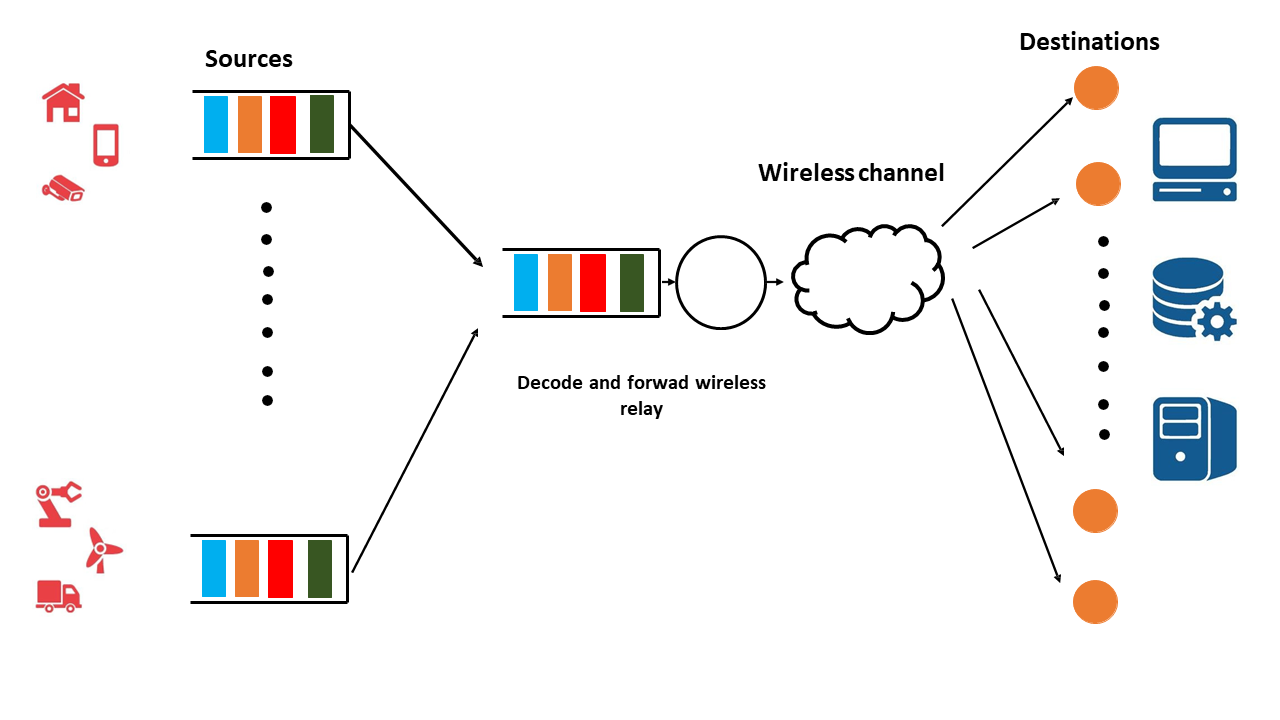
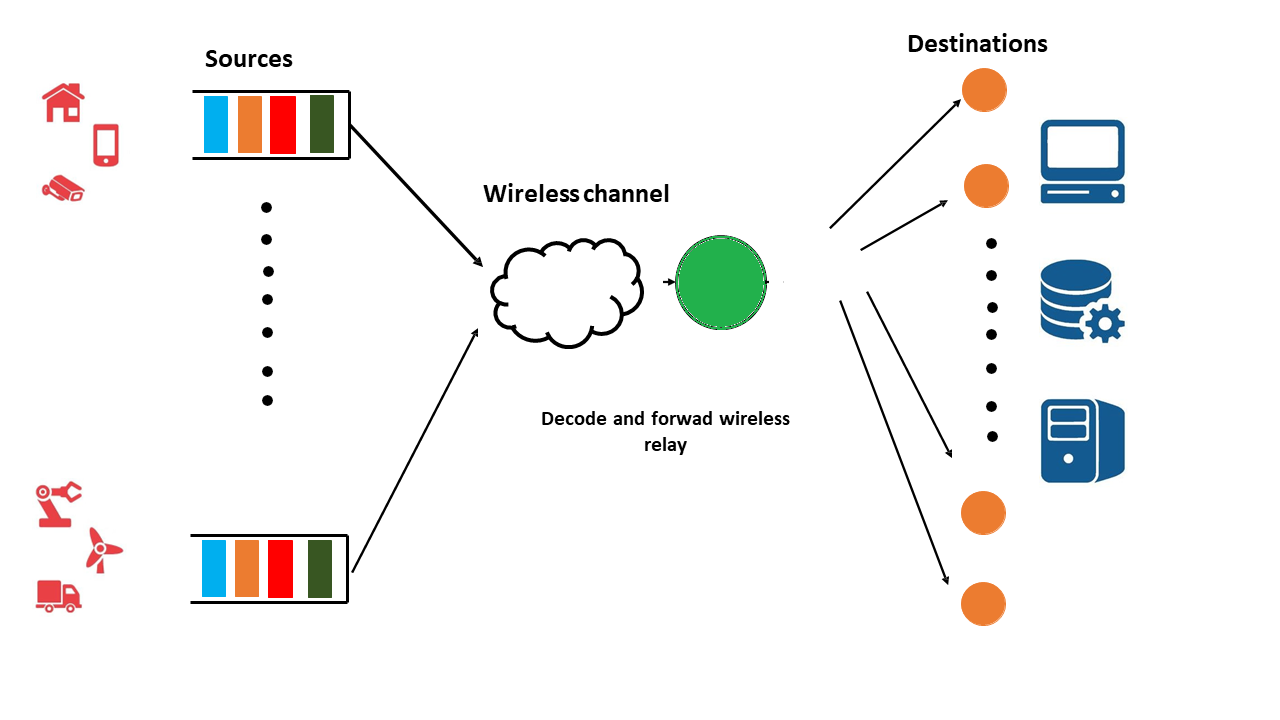
mkdocs

diff --git a/docs/site/index.html b/docs/site/index.html
@@ -294,6 +294,13 @@
 </li>
       
         <li class="md-nav__item">
+  <a href="#features" class="md-nav__link">
+    Features
+  </a>
+  
+</li>
+      
+        <li class="md-nav__item">
   <a href="#requirements" class="md-nav__link">
     Requirements
   </a>
@@ -397,12 +404,44 @@
 
 
 <p><a href="https://github.com/cahthuranag/Agewire/blob/3000891c482e715b3006264a88dfcf4ed4aedc7c/LICENSE"><img alt="License: MIT" src="https://img.shields.io/badge/License-MIT-yellow.svg" /></a>
-<img alt=".github/workflows/test.yml" src="https://github.com/github/docs/actions/workflows/test.yml/badge.svg" /></p>
+<img alt=".github/workflows/test.yml" src="https://github.com/github/docs/actions/workflows/test.yml/badge.svg" />
+<a href="https://codecov.io/gh/cahthuranag/agenet"><img alt="codecov" src="https://codecov.io/gh/cahthuranag/agenet/branch/main/graph/badge.svg?token=k8Ix6Zv8x9" /></a>
+<a href="https://github.com/psf/black"><img alt="Code style: black" src="https://img.shields.io/badge/code%20style-black-000000.svg" /></a>
+<a href="https://cahthuranag.github.io/agenet/"><img alt="Docs" src="https://img.shields.io/badge/docs-stable-blue.svg" /></a>
+<img alt="GitHub Repo stars" src="https://img.shields.io/github/stars/cahthuranag/agenet?style=social" />
+<img alt="GitHub last commit" src="https://img.shields.io/github/last-commit/cahthuranag/agenet" /></p>
 <h1 id="agenet">agenet</h1>
 <p>A Python 3.8 implementation of the System Model estimate the average AoI (AAoI) in an ultra-reliable low latency communication (URLLC) enabled  wireless  communication system with slotted aloha scheme  over the quasi-static Rayleigh block fading channels. A packet communication scheme is used to meet both the reliability and latency requirements of the  proposed wireless network. By resorting to finite block length information theory, queuing theory and stochastic processes, theoretical results were obtained for this research software.</p>
 <h2 id="system-model">System Model</h2>
-<p>In this software,  a URLLC-enable wireless communication  system is proposed as illustrated in figure
-<img alt="System model." src="/figures/Fig1.png" /> </p>
+<p>The following figure illustrates the wireless communication system that is proposed in this application. 
+<img alt="System model." src="\figures/Fig1.png" />
+The diagram illustrates a wireless network that consists of multiple nodes. The transmission between each node and the relay is done using a transmission scheme similar to that of the slotted ALOHA protocol, which is a popular random access method used in wireless communication systems.</p>
+<p>However, the transmission between the relay and each destination uses dedicated communication channels, and as a result, no transmission scheme similar to ALOHA is employed for this part of the communication. This helps to reduce the possibility of collisions and improve the reliability of the communication.</p>
+<p>Additionally, short packet communication is used for transmission. Since short packets are more susceptible to errors, a finite block length information theory is employed to calculate the block error rate. This allows for a more accurate estimation of the probability of errors occurring during transmission.</p>
+<h2 id="features">Features</h2>
+<p>The agenet package allows the user to study the Age of Information (AoI) in a slotted URLLC-enabled ALOHA network, which can be used as a basis for implementing mission-critical wireless communication applications. This application can be used as a study tool to analyze the age of information in slotted ALOHA networks with multiple users and short packet communications scenarios to maintain URLLC (ultra-reliable low-latency communication). In this application, various parameters such as power allocation, block length, packet size, number of nodes in the network, and activation probability of each node can be adjusted to analyze how the age of information varies.</p>
+<p>The agenet package contains several functions that can be used to study the Age of Information (AoI) in a slotted URLLC-enabled ALOHA network. These functions include:</p>
+<ul>
+<li>
+<p>Calculates the Signal-to-Noise Ratio (SNR) at each receiving node. This function can be used to determine the SNR for each node in the network, which is an important factor in determining the quality of the communication link;</p>
+</li>
+<li>
+<p>Calculates the Block Error Rate (BER) at each destination. This function can be used to determine the BER for each destination in the network, which is an important metric for assessing the reliability of the network;</p>
+</li>
+<li>
+<p>Calculates the theoretical AoI and simulates the AoI for a given network configuration. This function can be used to determine the theoretical AoI for a given network configuration, which can be compared with the numerically simulated AoI to verify the accuracy of the simulation.
+Also, it is useful for analyzing the performance of the network and assessing the impact of various parameters on the AoI ;</p>
+</li>
+<li>
+<p>Estimates the average AoI value for a given update generation time and receiving time. This function can be used to estimate the average AoI value for a given update generation time and receiving time, which is a useful metric for evaluating the performance of any network ;</p>
+</li>
+</ul>
+<p>The package can be used to analyze the performance of a slotted URLLC-enabled ALOHA network and to implement mission-critical wireless communication applications. Additionally, a command-line script is included in the package that allows for easy experimentation with the model. The user can run a simulation with default parameters using the command provided. To run a simulation with default parameters, the user can use a provided command. The simulation can generate both theoretical and simulated values for various factors such as block lengths, power allocations, packet sizes, activation probabilities, and number of nodes in the network. These values can be presented in the form of tables using following command.</p>
+<pre><code>ageprint
+</code></pre>
+<p>In addition to the tables, the simulation results can also be displayed as plots using the command </p>
+<pre><code>ageplot
+</code></pre>
 <h2 id="requirements">Requirements</h2>
 <p>The implementation requires Python 3.8+ to run.
 The following libraries are also required:</p>
@@ -438,9 +477,7 @@ pip install -e .[dev]
 <p>This way, the package is installed in development mode. As a result, the pytest dependencies/plugins are also installed.</p>
 <h2 id="documentation">Documentation</h2>
 <ul>
-<li><a href=""><em>Agenet</em> package documentation</a></li>
-<li><a href="">Developer's guide</a></li>
-<li><a href="">Scenario Description</a></li>
+<li><a href="https://cahthuranag.github.io/agenet/"><em>Agenet</em> package documentation</a></li>
 </ul>
 <h2 id="license">License</h2>
 <p><a href="LICENSE">MIT License</a></p>

diff --git a/docs/site/theory/index.html b/docs/site/theory/index.html
@@ -412,7 +412,6 @@
 </tr>
 </tbody>
 </table>
-<p>test</p>
 
 
 

diff --git a/docs/docs/index.md b/docs/docs/index.md
@@ -3,12 +3,41 @@
 [![codecov](https://codecov.io/gh/cahthuranag/agenet/branch/main/graph/badge.svg?token=k8Ix6Zv8x9)](https://codecov.io/gh/cahthuranag/agenet)
 [![Code style: black](https://img.shields.io/badge/code%20style-black-000000.svg)](https://github.com/psf/black)
 [![Docs](https://img.shields.io/badge/docs-stable-blue.svg)](https://cahthuranag.github.io/agenet/)
-
+![GitHub Repo stars](https://img.shields.io/github/stars/cahthuranag/agenet?style=social)
+![GitHub last commit](https://img.shields.io/github/last-commit/cahthuranag/agenet)
 # agenet
 A Python 3.8 implementation of the System Model estimate the average AoI (AAoI) in an ultra-reliable low latency communication (URLLC) enabled  wireless  communication system with slotted aloha scheme  over the quasi-static Rayleigh block fading channels. A packet communication scheme is used to meet both the reliability and latency requirements of the  proposed wireless network. By resorting to finite block length information theory, queuing theory and stochastic processes, theoretical results were obtained for this research software.
 ## System Model
-In this software,  a URLLC-enable wireless communication  system is proposed as illustrated in following figure. 
-![System model.](agenet\docs\docs\figures/Fig1.png) 
+The following figure illustrates the wireless communication system that is proposed in this application. 
+![System model.](\figures/Fig1.png)
+The diagram illustrates a wireless network that consists of multiple nodes. The transmission between each node and the relay is done using a transmission scheme similar to that of the slotted ALOHA protocol, which is a popular random access method used in wireless communication systems.
+
+However, the transmission between the relay and each destination uses dedicated communication channels, and as a result, no transmission scheme similar to ALOHA is employed for this part of the communication. This helps to reduce the possibility of collisions and improve the reliability of the communication.
+
+Additionally, short packet communication is used for transmission. Since short packets are more susceptible to errors, a finite block length information theory is employed to calculate the block error rate. This allows for a more accurate estimation of the probability of errors occurring during transmission.
+## Features
+The agenet package allows the user to study the Age of Information (AoI) in a slotted URLLC-enabled ALOHA network, which can be used as a basis for implementing mission-critical wireless communication applications. This application can be used as a study tool to analyze the age of information in slotted ALOHA networks with multiple users and short packet communications scenarios to maintain URLLC (ultra-reliable low-latency communication). In this application, various parameters such as power allocation, block length, packet size, number of nodes in the network, and activation probability of each node can be adjusted to analyze how the age of information varies.
+
+The agenet package contains several functions that can be used to study the Age of Information (AoI) in a slotted URLLC-enabled ALOHA network. These functions include:
+
+- Calculates the Signal-to-Noise Ratio (SNR) at each receiving node. This function can be used to determine the SNR for each node in the network, which is an important factor in determining the quality of the communication link;
+
+- Calculates the Block Error Rate (BER) at each destination. This function can be used to determine the BER for each destination in the network, which is an important metric for assessing the reliability of the network;
+
+- Calculates the theoretical AoI and simulates the AoI for a given network configuration. This function can be used to determine the theoretical AoI for a given network configuration, which can be compared with the numerically simulated AoI to verify the accuracy of the simulation.
+Also, it is useful for analyzing the performance of the network and assessing the impact of various parameters on the AoI ;
+
+- Estimates the average AoI value for a given update generation time and receiving time. This function can be used to estimate the average AoI value for a given update generation time and receiving time, which is a useful metric for evaluating the performance of any network ;
+
+The package can be used to analyze the performance of a slotted URLLC-enabled ALOHA network and to implement mission-critical wireless communication applications. Additionally, a command-line script is included in the package that allows for easy experimentation with the model. The user can run a simulation with default parameters using the command provided. To run a simulation with default parameters, the user can use a provided command. The simulation can generate both theoretical and simulated values for various factors such as block lengths, power allocations, packet sizes, activation probabilities, and number of nodes in the network. These values can be presented in the form of tables using following command.
+```
+ageprint
+```
+
+In addition to the tables, the simulation results can also be displayed as plots using the command 
+```
+ageplot
+```
 
 
 ## Requirements
@@ -63,8 +92,7 @@ This way, the package is installed in development mode. As a result, the pytest 
 ## Documentation
 
 * [*Agenet* package documentation](https://cahthuranag.github.io/agenet/)
-* [Developer's guide]()
-* [Scenario Description]()
+
 
 ## License
 
